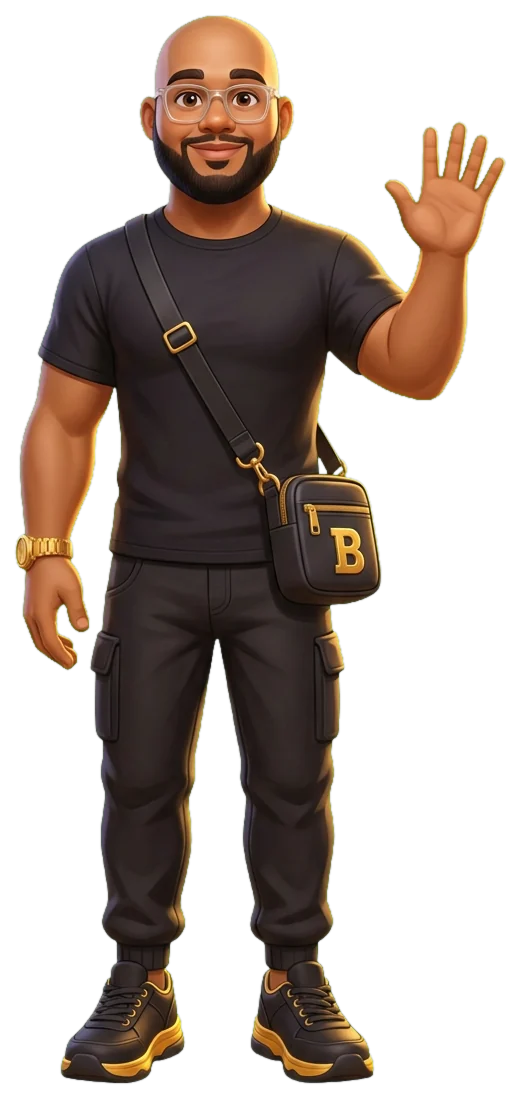
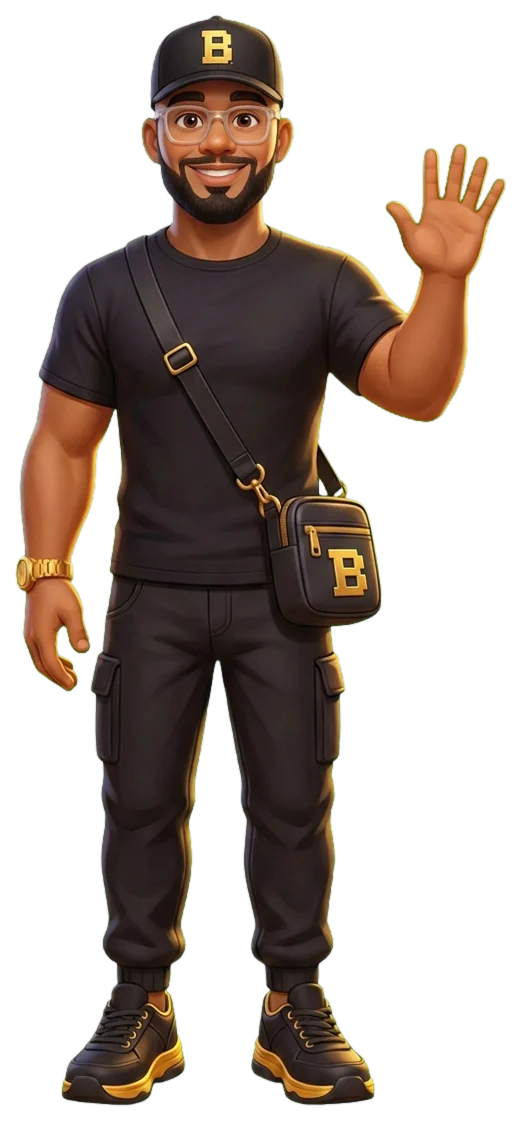
Big Breezoe: cap version, slimmer face, blocky B on cap and bag
Hero and welcome avatar re-rendered at Cris's request. Hero stamped ?v=4,
avatar ?v=2.

diff --git a/public/index.html b/public/index.html
@@ -54,7 +54,7 @@
 <!-- 1. Hero -->
 <section class="hero" id="top" aria-labelledby="hero-h">
 <div class="hero-media" aria-hidden="true">
-<img src="/media/golden-road-hero.webp?v=3" srcset="/media/golden-road-hero-800.webp?v=3 800w, /media/golden-road-hero.webp?v=3 1600w" sizes="100vw" width="1600" height="893" alt="" fetchpriority="high" decoding="async">
+<img src="/media/golden-road-hero.webp?v=4" srcset="/media/golden-road-hero-800.webp?v=4 800w, /media/golden-road-hero.webp?v=4 1600w" sizes="100vw" width="1600" height="893" alt="" fetchpriority="high" decoding="async">
 </div>
 <div class="wrap hero-in">
 <svg class="hero-mark" viewBox="0 0 902 100" xmlns="http://www.w3.org/2000/svg" role="img" aria-label="Big Breezoe"><path class="l" style="--i:0" d="M0,0 h26 v100 h-26 Z M26,0 h38 v22 h-38 Z M42,0 h22 v52 h-22 Z M26,40 h48 v22 h-48 Z M52,40 h22 v60 h-22 Z M26,78 h48 v22 h-48 Z"/><path class="l" style="--i:1" d="M90,0 h24 v100 h-24 Z"/><path class="l" style="--i:2" d="M130,0 h26 v100 h-26 Z M156,0 h56 v24 h-56 Z M156,76 h56 v24 h-56 Z M188,48 h24 v52 h-24 Z M174,48 h38 v22 h-38 Z"/><path class="l" style="--i:3" d="M284,0 h26 v100 h-26 Z M310,0 h38 v22 h-38 Z M326,0 h22 v52 h-22 Z M310,40 h48 v22 h-48 Z M336,40 h22 v60 h-22 Z M310,78 h48 v22 h-48 Z"/><path class="l" style="--i:4" d="M374,0 h26 v100 h-26 Z M400,0 h48 v22 h-48 Z M426,0 h22 v52 h-22 Z M400,40 h48 v22 h-48 Z M416,62 L454,100 L422,100 L400,70 L400,58 Z"/><path class="l" style="--i:5" d="M470,0 h24 v100 h-24 Z M494,0 h48 v24 h-48 Z M494,38 h40 v24 h-40 Z M494,76 h48 v24 h-48 Z"/><path class="l" style="--i:6" d="M558,0 h24 v100 h-24 Z M582,0 h48 v24 h-48 Z M582,38 h40 v24 h-40 Z M582,76 h48 v24 h-48 Z"/><path class="l" style="--i:7" d="M646,0 h72 v24 h-72 Z M646,76 h72 v24 h-72 Z M694,24 L718,24 L670,76 L646,76 Z"/><path class="l" style="--i:8" d="M734,0 h80 v24 h-80 Z M734,76 h80 v24 h-80 Z M734,0 h24 v100 h-24 Z M790,0 h24 v100 h-24 Z"/><path class="l" style="--i:9" d="M830,0 h24 v100 h-24 Z M854,0 h48 v24 h-48 Z M854,38 h40 v24 h-40 Z M854,76 h48 v24 h-48 Z"/></svg>

diff --git a/public/welcome/index.html b/public/welcome/index.html
@@ -42,7 +42,7 @@
 </div>
 <div class="wl-avatar" aria-hidden="true">
 <div class="wl-sun"></div>
-<img src="/media/big-breezoe-wave.webp" alt="" width="521" height="1099" decoding="async">
+<img src="/media/big-breezoe-wave.webp?v=2" alt="" width="522" height="1121" decoding="async">
 <div class="wl-bricks"><i></i><i></i><i></i><i></i><i></i><i></i></div>
 </div>
 </div>
